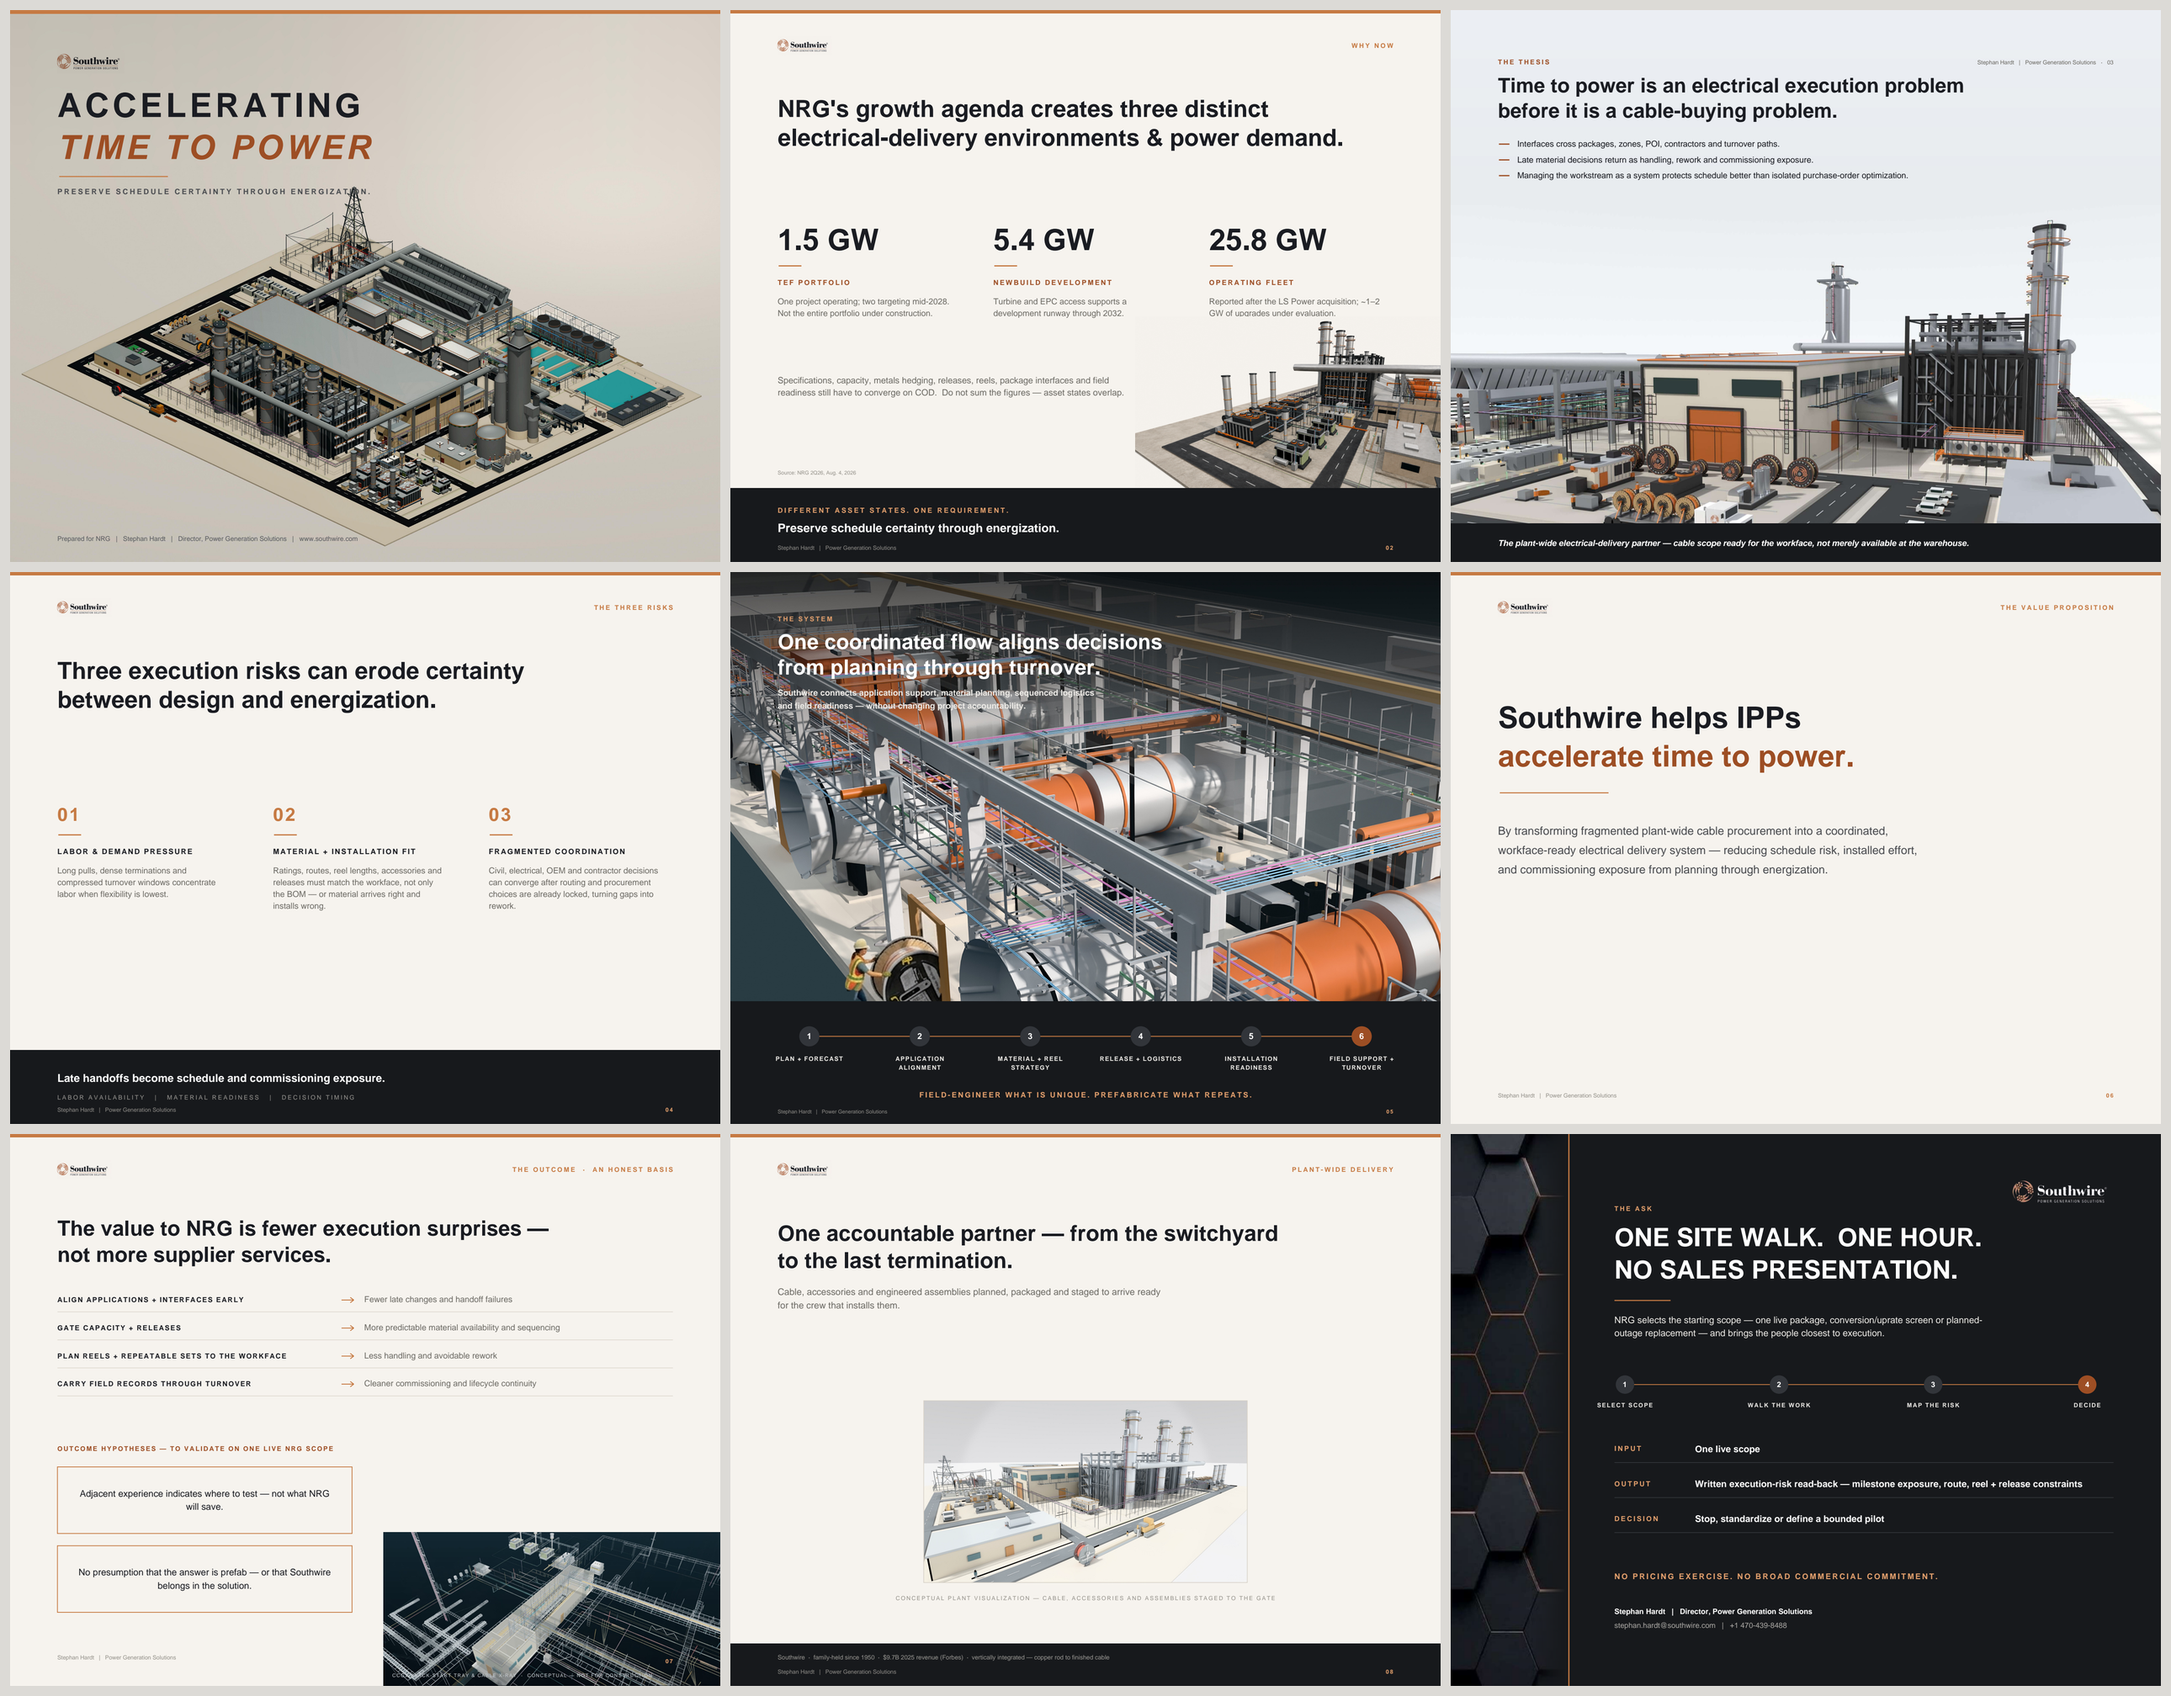
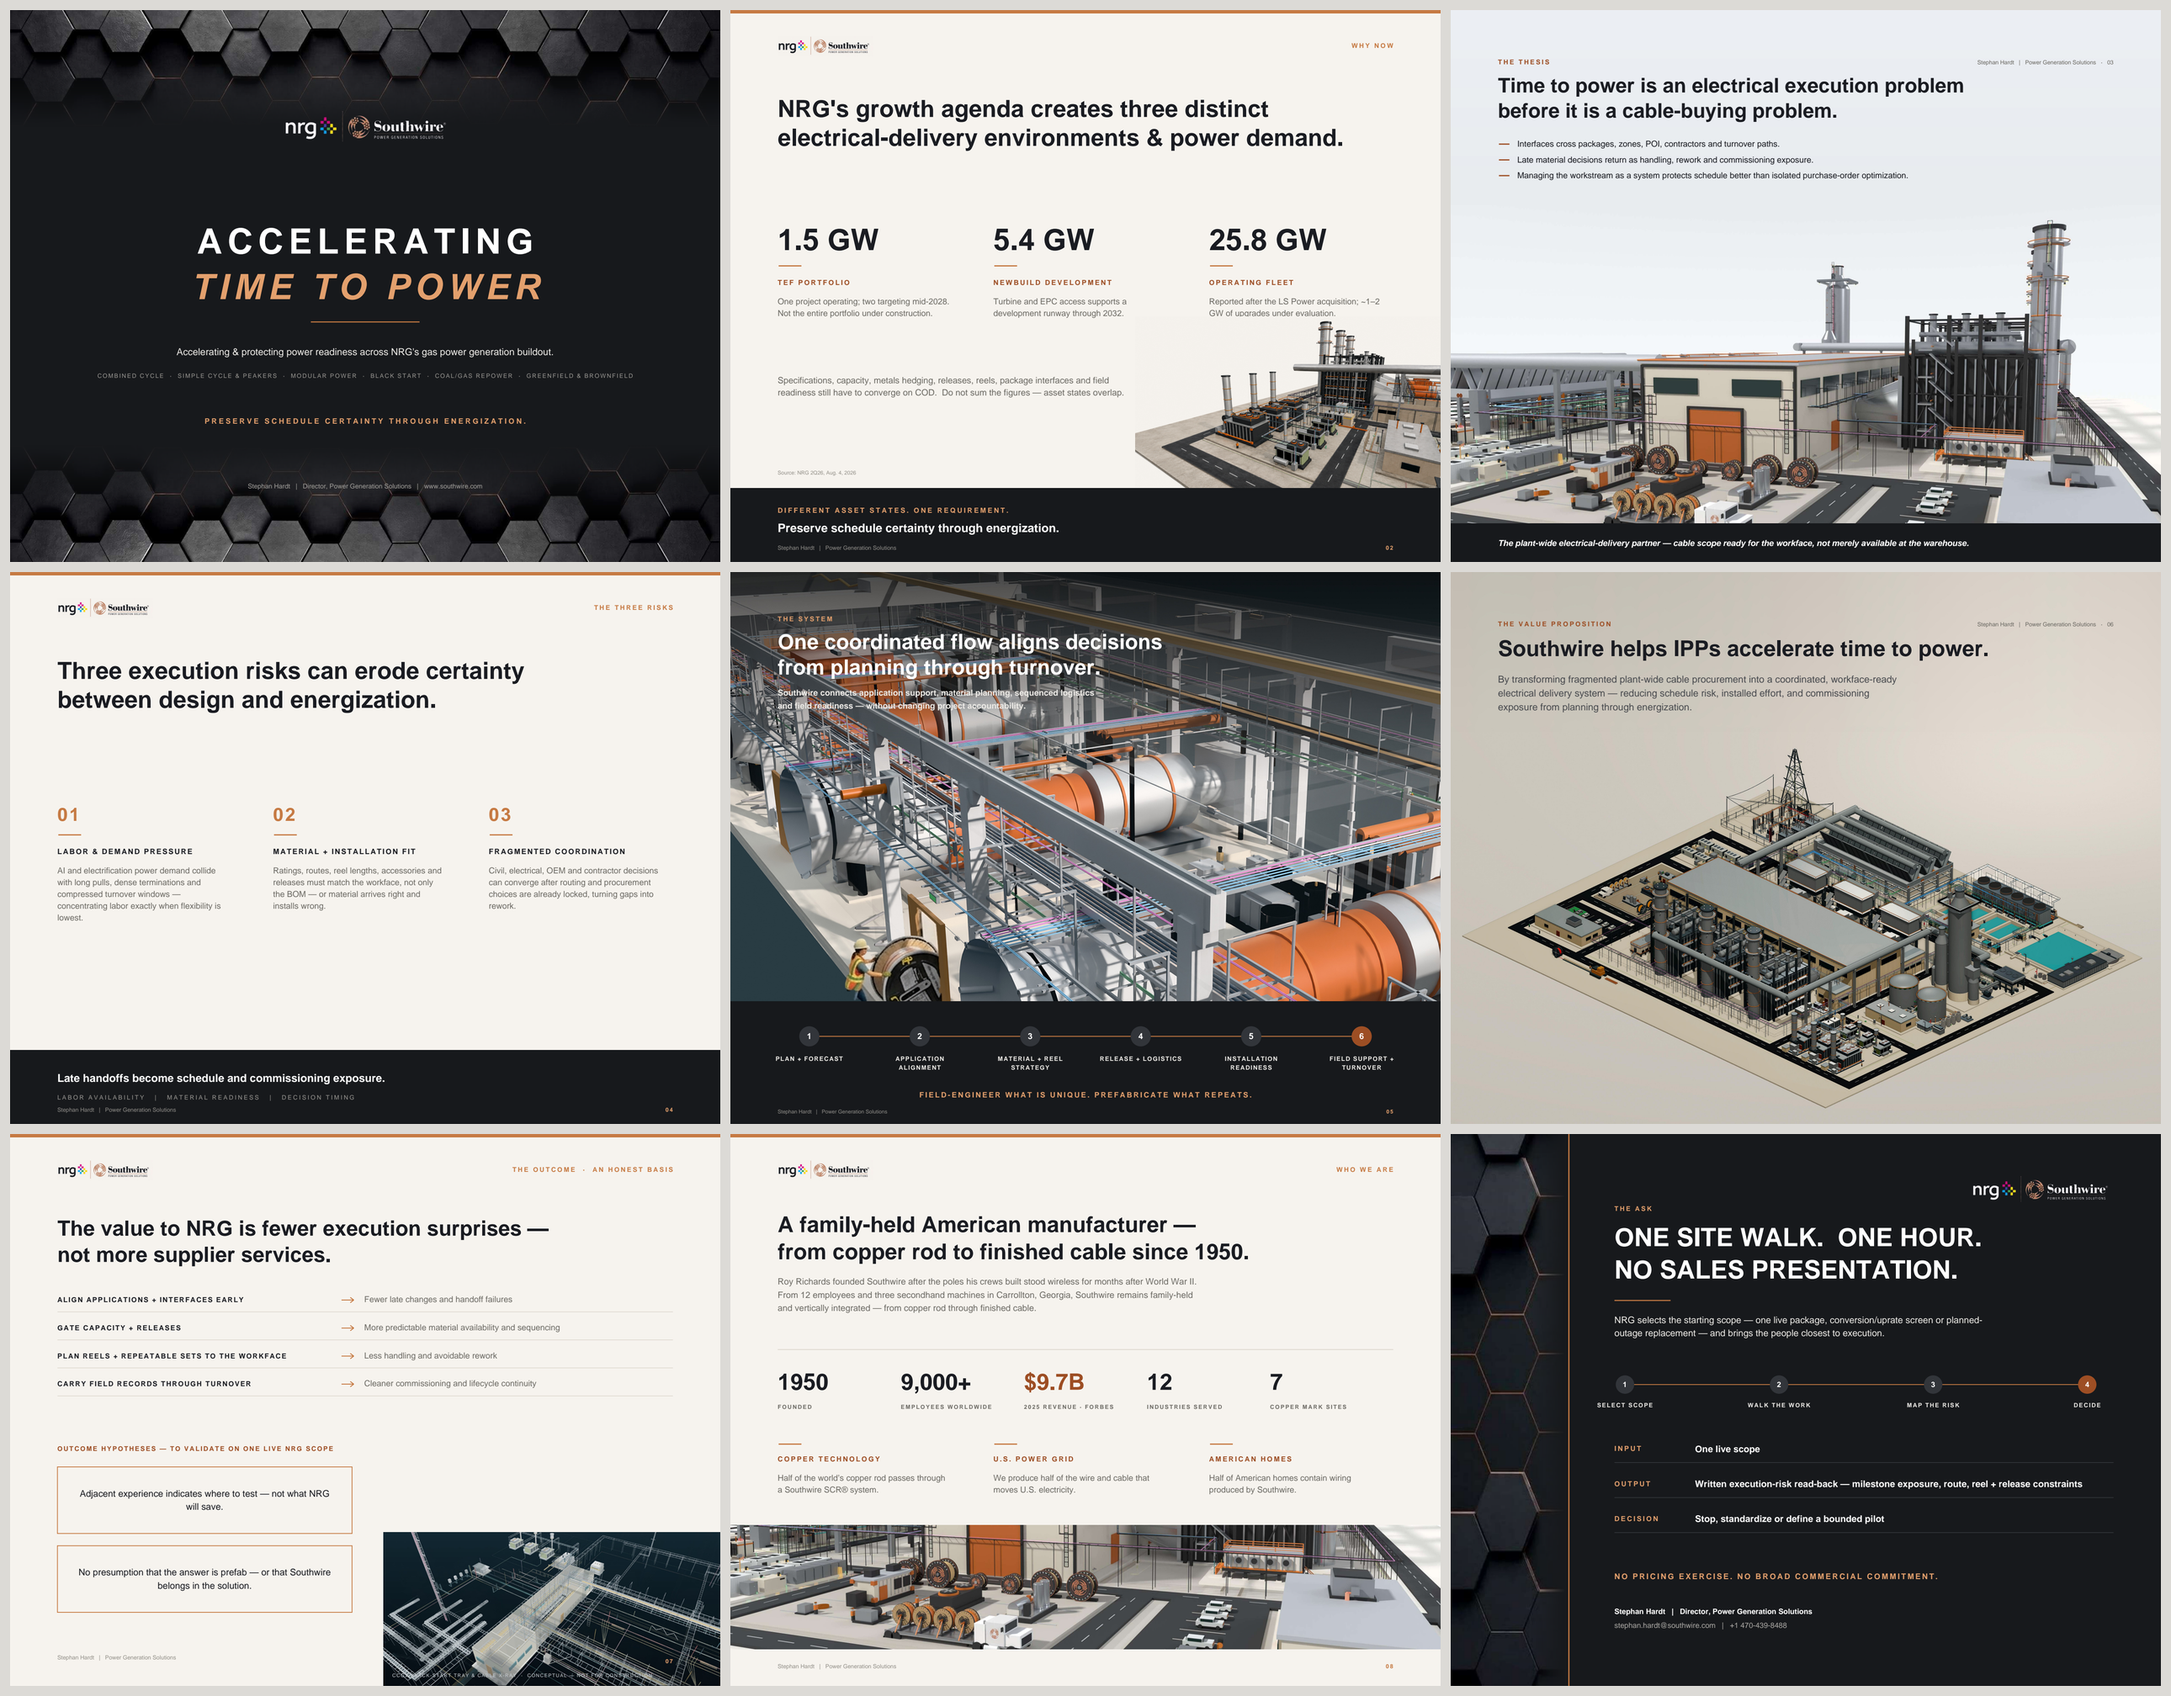
Revert to Rev 3 layout per Stephan's review
Restore the version Stephan attached as the preferred one (text-identical
rebuild): hexagon cover, NRG | Southwire lockups, Who-We-Are page, and
value proposition on the whole-plant isometric. Rev 4 remains in history.

Claude-Session: https://claude.ai/code/session_01GUc8TTDsFhQM7XDNkjzccc

diff --git a/brochure/build_brochure.py b/brochure/build_brochure.py
@@ -43,11 +43,7 @@ IMG = {k: ImageReader(A + f) for k, f in {
     'interior': 'interior_full.jpg',        # 8K turbine-hall interior w/ reel worker, scrimmed
     'xray': 'xray.png',                     # CCGT tray & cable x-ray, title block cropped
     'yard_strip': 'yard_strip.png',
-    'peaker': 'peaker_warm.png',        # peaker plant, warm-tinted, native res
-    'gate_plate': 'gate_plate.png',     # plant-gate render w/ Southwire reel, framed plate
-    'sw_light': 'sw_light.png',         # Southwire-only lockup, light pages
-    'sw_dark': 'sw_dark.png',           # Southwire-only lockup, dark pages
-    'sw_cover': 'sw_cover.png',         # Southwire lockup tinted to iso cover background        # peaker plant, warm-tinted, native res         # staging yard + Southwire reels band
+    'peaker': 'peaker_warm.png',        # peaker plant, warm-tinted, native res         # staging yard + Southwire reels band
 }.items()}
 
 FOOTER = 'Stephan Hardt   |   Power Generation Solutions'
@@ -110,8 +106,8 @@ def light_frame(c, kicker, folio, band=False):
     c.rect(0, 0, PW, PH, fill=1, stroke=0)
     c.setFillColor(COPPER)
     c.rect(0, PH - 3.5, PW, 3.5, fill=1, stroke=0)
-    lh = 21
-    c.drawImage(IMG['sw_light'], M, PH - 30 - lh, width=img_w('sw_light', lh),
+    lh = 23
+    c.drawImage(IMG['lockup_light'], M, PH - 30 - lh, width=img_w('lockup_light', lh),
                 height=lh, mask='auto')
     tracked(c, PW - M, PH - 30 - 13, kicker, 'Helvetica-Bold', 7.5, 1.6, COPPER, align='right')
     if not band:
@@ -136,24 +132,36 @@ def band_footer(c, folio):
 
 # ---------------------------------------------------------------- pages
 def p1_cover(c):
-    c.drawImage(IMG['hero_iso'], 0, 0, width=PW, height=PH)
+    c.setFillColor(WARM)
+    c.rect(0, 0, PW, PH, fill=1, stroke=0)
     c.setFillColor(COPPER)
     c.rect(0, PH - 4, PW, 4, fill=1, stroke=0)
-    lh = 26
-    c.drawImage(IMG['sw_cover'], M, PH - 46 - lh, width=img_w('sw_cover', lh),
-                height=lh, mask='auto')
 
-    tracked(c, M, PH - 122, 'ACCELERATING', 'Helvetica-Bold', 38, 4, INK)
-    tracked(c, M, PH - 170, 'TIME TO POWER', 'Helvetica-BoldOblique', 38, 4, COPPER_DP)
+    lh = 30
+    c.drawImage(IMG['lockup_light'], PW/2 - img_w('lockup_light', lh)/2, PH - 64 - lh,
+                width=img_w('lockup_light', lh), height=lh, mask='auto')
+
+    tracked(c, PW/2, 470, 'ACCELERATING', 'Helvetica-Bold', 42, 5, INK, align='center')
+    tracked(c, PW/2, 416, 'TIME TO POWER', 'Helvetica-BoldOblique', 42, 5, COPPER_DP, align='center')
     c.setStrokeColor(COPPER)
     c.setLineWidth(1.2)
-    c.line(M + 2, PH - 190, M + 126, PH - 190)
-    tracked(c, M, PH - 210, 'PRESERVE SCHEDULE CERTAINTY THROUGH ENERGIZATION.',
-            'Helvetica-Bold', 8.5, 2.0, C('4A4C50'))
+    c.line(PW/2 - 62, 390, PW/2 + 62, 390)
 
-    c.setFillColor(C('5A5C60'))
+    c.setFillColor(GRAY)
+    c.setFont('Helvetica', 11)
+    c.drawCentredString(PW/2, 358, "Accelerating & protecting power readiness across NRG's gas power generation buildout.")
+    tracked(c, PW/2, 334,
+            'COMBINED CYCLE  \u00b7  SIMPLE CYCLE & PEAKERS  \u00b7  MODULAR POWER  \u00b7  BLACK START  \u00b7  COAL/GAS REPOWER  \u00b7  GREENFIELD & BROWNFIELD',
+            'Helvetica', 6.8, 1.1, GRAY_LT, align='center')
+
+    tracked(c, PW/2, 266, 'PRESERVE SCHEDULE CERTAINTY THROUGH ENERGIZATION.',
+            'Helvetica-Bold', 8.5, 2.2, COPPER_DP, align='center')
+
+    c.drawImage(IMG['cover_strip'], 0, 0, width=PW, height=227)
+
+    c.setFillColor(Color(90/255, 88/255, 84/255))
     c.setFont('Helvetica', 7.5)
-    c.drawString(M, 24, 'Prepared for NRG   |   Stephan Hardt   |   Director, Power Generation Solutions   |   www.southwire.com')
+    c.drawString(M, 24, 'Stephan Hardt   |   Director, Power Generation Solutions   |   www.southwire.com')
 
 
 def p1_cover_hex(c):
@@ -280,7 +288,7 @@ def p4_risks(c):
 
     cols = [
         ('01', 'LABOR & DEMAND PRESSURE',
-         'Long pulls, dense terminations and compressed turnover windows concentrate labor when flexibility is lowest.'),
+         'AI and electrification power demand collide with long pulls, dense terminations and compressed turnover windows — concentrating labor exactly when flexibility is lowest.'),
         ('02', 'MATERIAL + INSTALLATION FIT',
          'Ratings, routes, reel lengths, accessories and releases must match the workface, not only the BOM — or material arrives right and installs wrong.'),
         ('03', 'FRAGMENTED COORDINATION',
@@ -356,20 +364,19 @@ def p5_system(c):
 
 
 def p6_valueprop(c):
-    light_frame(c, 'THE VALUE PROPOSITION', '06')
+    c.drawImage(IMG['hero_iso'], 0, 0, width=PW, height=PH)
+    tracked(c, M, PH - 62, 'THE VALUE PROPOSITION', 'Helvetica-Bold', 7.5, 1.6, COPPER_DP)
     c.setFillColor(INK)
-    c.setFont('Helvetica-Bold', 34)
-    c.drawString(M, 452, 'Southwire helps IPPs')
-    c.setFillColor(COPPER_DP)
-    c.drawString(M, 408, 'accelerate time to power.')
-    c.setStrokeColor(COPPER)
-    c.setLineWidth(1.2)
-    c.line(M + 2, 378, M + 126, 378)
+    c.setFont('Helvetica-Bold', 25)
+    c.drawString(M, PH - 96, 'Southwire helps IPPs accelerate time to power.')
     c.setFillColor(C('4A4C50'))
-    c.setFont('Helvetica', 13)
-    c.drawString(M, 330, 'By transforming fragmented plant-wide cable procurement into a coordinated,')
-    c.drawString(M, 308, 'workface-ready electrical delivery system \u2014 reducing schedule risk, installed effort,')
-    c.drawString(M, 286, 'and commissioning exposure from planning through energization.')
+    c.setFont('Helvetica', 11)
+    c.drawString(M, PH - 126, 'By transforming fragmented plant-wide cable procurement into a coordinated, workface-ready')
+    c.drawString(M, PH - 142, 'electrical delivery system \u2014 reducing schedule risk, installed effort, and commissioning')
+    c.drawString(M, PH - 158, 'exposure from planning through energization.')
+    c.setFillColor(GRAY)
+    c.setFont('Helvetica', 6.5)
+    c.drawRightString(PW - M, PH - 62, FOOTER + '   \u00b7   06')
 
 
 def p7_value(c):
@@ -434,32 +441,57 @@ def p7_value(c):
 
 
 def p8_who(c):
-    light_frame(c, 'PLANT-WIDE DELIVERY', '08', band=True)
-    y = PH - 122
+    light_frame(c, 'WHO WE ARE', '08', band=True)
+    y = PH - 112
     c.setFillColor(INK)
     c.setFont('Helvetica-Bold', 25)
-    c.drawString(M, y, 'One accountable partner \u2014 from the switchyard')
-    c.drawString(M, y - 31, 'to the last termination.')
+    c.drawString(M, y, 'A family-held American manufacturer \u2014')
+    c.drawString(M, y - 31, 'from copper rod to finished cable since 1950.')
     c.setFillColor(GRAY)
-    c.setFont('Helvetica', 10.5)
-    c.drawString(M, y - 62, 'Cable, accessories and engineered assemblies planned, packaged and staged to arrive ready')
-    c.drawString(M, y - 77, 'for the crew that installs them.')
+    c.setFont('Helvetica', 10)
+    c.drawString(M, y - 60, 'Roy Richards founded Southwire after the poles his crews built stood wireless for months after World War II.')
+    c.drawString(M, y - 75, 'From 12 employees and three secondhand machines in Carrollton, Georgia, Southwire remains family-held')
+    c.drawString(M, y - 90, 'and vertically integrated \u2014 from copper rod through finished cable.')
 
-    pw_img, ph_img = 369, 207.6
-    px = (PW - pw_img) / 2
-    py = 118
-    c.drawImage(IMG['gate_plate'], px, py, width=pw_img, height=ph_img)
+    stats = [
+        ('1950', 'FOUNDED', INK),
+        ('9,000+', 'EMPLOYEES WORLDWIDE', INK),
+        ('$9.7B', '2025 REVENUE \u00b7 FORBES', COPPER_DP),
+        ('12', 'INDUSTRIES SERVED', INK),
+        ('7', 'COPPER MARK SITES', INK),
+    ]
     c.setStrokeColor(C('D8D2C8'))
     c.setLineWidth(0.75)
-    c.rect(px, py, pw_img, ph_img, fill=0, stroke=1)
-    tracked(c, PW/2, 98, 'CONCEPTUAL PLANT VISUALIZATION \u2014 CABLE, ACCESSORIES AND ASSEMBLIES STAGED TO THE GATE',
-            'Helvetica', 6.5, 1.2, GRAY_LT, align='center')
+    c.line(M, 384, PW - M, 384)
+    coln = len(stats)
+    colw = (PW - 2 * M) / coln
+    for i, (val, label, col) in enumerate(stats):
+        x = M + i * colw
+        c.setFillColor(col)
+        c.setFont('Helvetica-Bold', 26)
+        c.drawString(x, 338, val)
+        tracked(c, x, 316, label, 'Helvetica-Bold', 6.5, 1.1, GRAY)
 
-    dark_band(c, 48)
-    c.setFillColor(Color(150/255, 148/255, 144/255))
-    c.setFont('Helvetica', 7)
-    c.drawString(M, 30, 'Southwire  \u00b7  family-held since 1950  \u00b7  $9.7B 2025 revenue (Forbes)  \u00b7  vertically integrated \u2014 copper rod to finished cable')
-    band_footer(c, '08')
+    proofs = [
+        ('COPPER TECHNOLOGY', 'Half of the world\u2019s copper rod passes through a Southwire SCR\u00ae system.'),
+        ('U.S. POWER GRID', 'We produce half of the wire and cable that moves U.S. electricity.'),
+        ('AMERICAN HOMES', 'Half of American homes contain wiring produced by Southwire.'),
+    ]
+    colw3 = (PW - 2 * M - 2 * 36) / 3
+    for i, (label, txt) in enumerate(proofs):
+        x = M + i * (colw3 + 36)
+        c.setStrokeColor(COPPER)
+        c.setLineWidth(1.4)
+        c.line(x + 1, 276, x + 27, 276)
+        tracked(c, x, 256, label, 'Helvetica-Bold', 8, 1.5, COPPER_DP)
+        para(c, x, 234, txt, 'Helvetica', 9.5, 13.5, colw3 - 12, GRAY)
+
+    sh = PW * 670 / 3840
+    c.drawImage(IMG['yard_strip'], 0, 42, width=PW, height=sh)
+    c.setFillColor(GRAY_LT)
+    c.setFont('Helvetica', 6.5)
+    c.drawString(M, 20, FOOTER)
+    tracked(c, PW - M, 20, '08', 'Helvetica-Bold', 6.5, 1.2, COPPER, align='right')
 
 
 def p9_ask(c):
@@ -471,9 +503,9 @@ def p9_ask(c):
     c.setLineWidth(1.4)
     c.line(sw + 4, 0, sw + 4, PH)
 
-    lw = 118
-    lh = lw * 202 / 578
-    c.drawImage(IMG['sw_dark'], PW - M - lw, PH - 48 - lh, width=lw, height=lh, mask='auto')
+    lw = 168
+    lh = lw * 202 / 943
+    c.drawImage(IMG['lockup_dark'], PW - M - lw, PH - 48 - lh, width=lw, height=lh, mask='auto')
 
     x0 = sw + 56
     tracked(c, x0, PH - 88, 'THE ASK', 'Helvetica-Bold', 7.5, 1.6, COPPER_LT)
@@ -537,7 +569,7 @@ def build(path='Southwire_PowerGen_Brochure_NRG_Rev01.pdf'):
     c.setAuthor('Stephan Hardt')
     c.setTitle('Accelerating Time to Power — NRG | Southwire Power Generation Solutions')
     c.setSubject('SWR-PG-BROCHURE-NRG Rev 01')
-    for draw in [p1_cover, p2_why_now, p3_thesis, p4_risks, p5_system, p6_valueprop, p7_value, p8_who, p9_ask]:
+    for draw in [p1_cover_hex, p2_why_now, p3_thesis, p4_risks, p5_system, p6_valueprop, p7_value, p8_who, p9_ask]:
         draw(c)
         c.setTrimBox([BLEED, BLEED, PW - BLEED, PH - BLEED])
         c.setCropBox([0, 0, PW, PH])

diff --git a/brochure/BUILD_NOTES.md b/brochure/BUILD_NOTES.md
@@ -36,7 +36,17 @@ the $13B figure — none of which appear in the brochure).
   page, the founding story, and the three Southwire proof points. Fact-hygiene
   gates remain hard gates.
 
-## Rev 4 — "anti-pitch" pass (responding to executive review feedback)
+## Rev 5 — Rev 4 reverted at Stephan's direction
+
+Stephan reviewed the anti-pitch pass against the prior version and preferred the
+prior version outright. The brochure is restored to Rev 3 exactly (verified
+text-identical to the reference PDF he attached): hexagon cover, NRG | Southwire
+lockups, full "Who We Are" page, value proposition on the whole-plant isometric.
+The Rev 4 changes (iso cover, Southwire-only headers, framed gate-render plate,
+demoted corporate page) remain in git history at commit be794de if any single
+element is ever wanted back.
+
+## Rev 4 (reverted) — "anti-pitch" pass (responding to executive review feedback)
 
 - **Cover**: hexagon texture retired; the cover is now the full-bleed 3D whole-plant
   isometric with the title set in its sky — leading with build-environment fluency,
